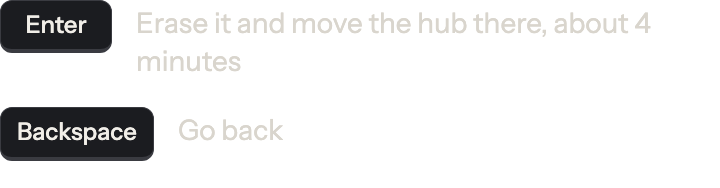
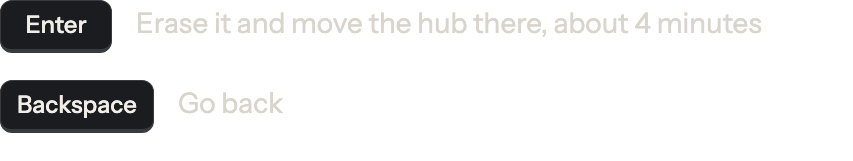
The erase confirmation's keys take the question's width, so its Enter line stays on one line

Changed region(s): [[0.0, 0.0, 0.9167, 0.3416], [0.0, 0.4969, 0.3972, 0.8696], [0.1833, 0.2795, 0.3361, 0.3727]]

diff --git a/design/move-to-drive/KeysA-2.dc.html b/design/move-to-drive/KeysA-2.dc.html
@@ -11,7 +11,7 @@
   <div class="card"><span class="ic"><svg width="28" height="28" viewBox="0 0 24 24" fill="none" stroke="#d9d5cd" stroke-width="1.6" stroke-linecap="round"><rect x="3" y="7" width="18" height="10" rx="2"/><path d="M7 12h.01M11 12h6"/></svg></span><span><b>Samsung SSD 980 · 512 GB</b><small><i>Ubuntu 24.04, with a hub on it</i> · 61 GB · used yesterday</small></span></div>
   <div class="entry">erase<span class="caret"></span></div>
   <div class="warn">This erases Ubuntu 24.04, the hub on it with its house, and 61 GB of files.<br>It can’t be undone.</div>
-  <div class="keys" style="top: 680px; left: 470px; width: 540px">
+  <div class="keys" style="top: 680px; left: 400px; width: 640px">
     <div class="key"><span class="cap">Enter</span><span>Erase it and move the hub there, about 4 minutes</span></div>
     <div class="key"><span class="cap">Backspace</span><span>Go back</span></div>
   </div>
